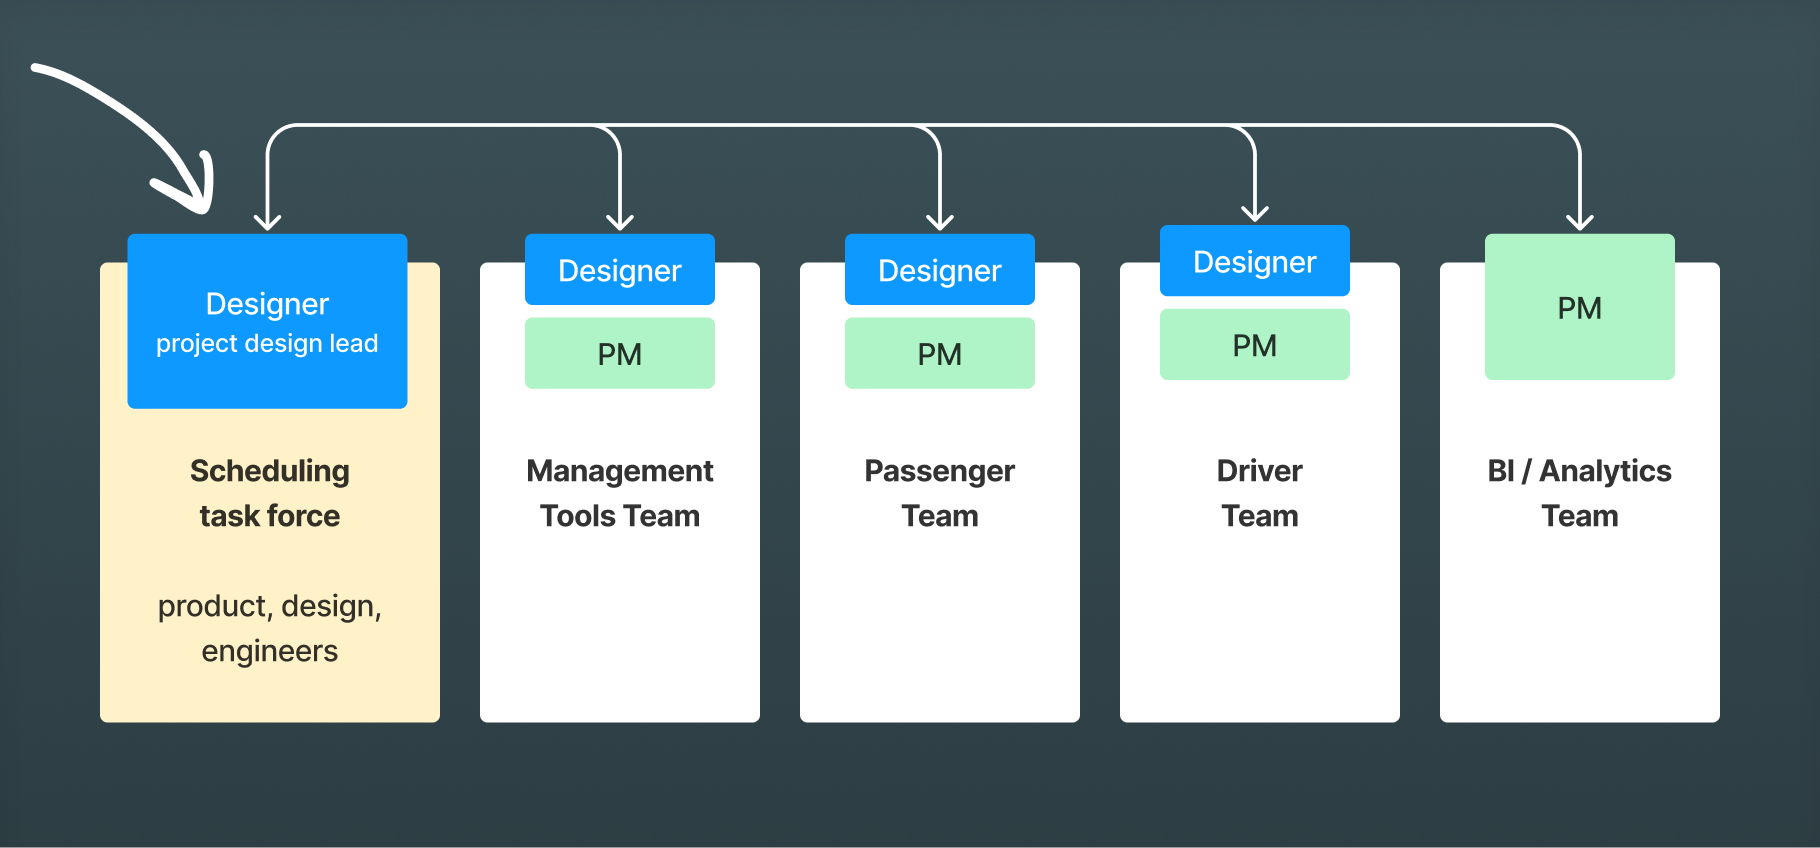
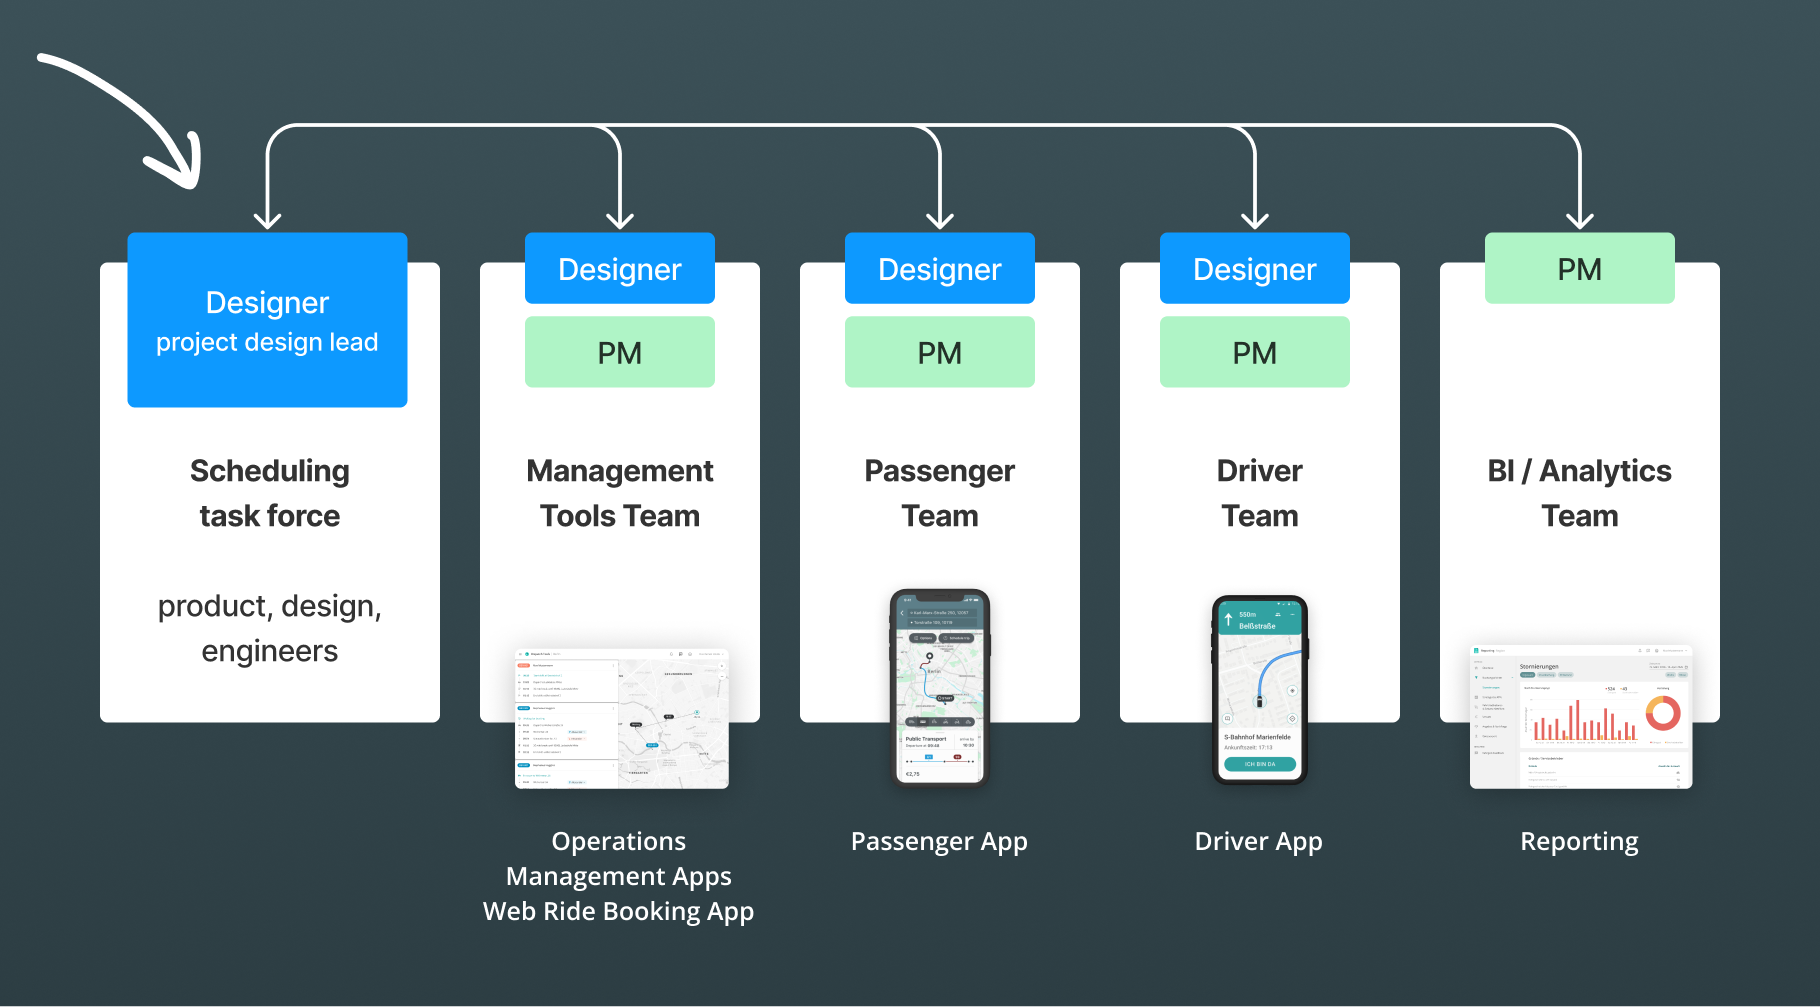
scheduling process

Changed region(s): [[0.0, 0.0613, 0.9538, 0.9198], [0.1538, 0.1226, 0.8615, 0.184], [0.8615, 0.1533, 0.8923, 0.184]]

diff --git a/door2door/index.html b/door2door/index.html
@@ -87,11 +87,10 @@
 
       <h3>Summary</h3>
       <ul>
-        <li>As a functional design leader, I have created solutions for and delivered a technically complex functionality (spanning across 4 parts of the product), which effectively enabled the company to run large-scale operations and unlocked new markets.</li>
-        <li>I have researched the problem space, collecting insights from customer interviews, live operation observations, passenger surveys, and bringing them to internal workshops and stakeholder feedback sessions.</li>
-        <li>Mapped interconnected task flows of 4 user types</li>
-        <li>Got validation and approval for a 3-phased design concept that prioritised pressing problems first and offered strategies for the future.</li>
-        <li>Provided guidance, support and adjustments during development iterations.</li>  
+        <li>As a functional design leader, I have conceptualised and delivered a complex feature (spanning across 4 subproducts and 5 different user groups), which effectively enabled the company to run large-scale operations and unlocked new markets.</li>
+        <li>I have researched the problem space, collecting insights from customer interviews, live operation observations, passenger surveys, and converted that knowledge into actionable items during ideation workshops and design research.</li>
+        <li>Delivered a 3-phased design concept that prioritised pressing problems first and offered strategies for the future.</li>
+        <li>Transformed the concept from MVP to a marketable product by researching and addressing corner cases and limitations.</li>  
       </ul>
 
 
@@ -101,43 +100,57 @@
         <img class="img-responsive center-block rounded" src="/images/scheduling_context.png" alt="">
       <section class="copy-section">
      
-      <p>The scheduling was supposed to add a new dimension — time — to a previously "realtime" system, changing core userflows, and affecting nearly all interfaces of the product.
-      A dedicated cross-team task force was established for implementation, with me tasked as its design leader.</p>
+      <p>The scheduling was supposed to add a new dimension — time — to a previously "realtime" system, changing core userflows, and affecting nearly all interfaces of the product.</p>
       
 
 
       <h3>My task</h3>
-      <p>Leading the process from the design side, enable cross-functional teams in the company, arriving to a solution that would make scheduling possible, while meeting the requirements, constraints and deadlines.</p>
+      <p>Enable cross-functional teams in the company from the design side, arriving to a solution that would make scheduling possible, while meeting the requirements, constraints and deadlines.</p>
+    </section>
+    <img class="img-responsive center-block rounded" src="/images/scheduling_teams.png" alt="">
+<section class="copy-section">
+
+      <p>To coordinate the efforts, a dedicated cross-team task force was established, with me taking the lead from the design side.</p>
+
+   
+      <h3>Research: scoping the problem</h3>
+      
+      <p>The challenge was to synthesize requirements from various customers, and define a scope that would be technically doable, and strategically aligned.</p>
+      </br>
+      <ul>
+        <li>What is the root problem that needs to be solved first?</li>
+        <li>Which userflows will have to be enabled to deliver a markletable solution?</li>
+        <li>Will the impact justify the efforts, and how do we measure it?</li>
+      </ul>
+      </br>
+
+      <p>The solution was completely new for the product. In collaboration with product and engineering leads, we have collected as much context as possible, and then experimented with different system designs and UX models, until we found a sweet spot between requirements, strategic value, user experience and feasibility.</p>
+        
 
     </section>
-        <img class="img-responsive center-block rounded" src="/images/scheduling_teams.png" alt="">
-    <section class="copy-section">
+    <img class="img-responsive center-block rounded" src="/images/scheduling_process.png" alt="">
+<section class="copy-section">
 
-      <h3>Research</h3>
-      <p>I have conducted a series of initial interviews with public transit operators in 4 cities and regions of Germany. The results were brought to internal ideation sessions and then again to customer feedback interviews (there were more than 10 iterations).</p>
-      
-
-      
-      <p>The difficulty was in synthesizing a variety of requirements and refining the concept to be both technically viable and a robust foundation for future expansion.</p>
-      
       <h3>Solution</h3>
-      <p>The concept that made everyone agree was a multi-phased plan which was set up to address pressing problems first and contained design proposalf for possible additional valuable functonality, such as automated schedule generation and dynamic supply-demand matching.</p>
+      <p>The stakeholders agreed on 3-phased solution which was set up to address pressing problems first and contained design proposals for adding more value through automation and prediction models.</p>
+
+
+    </section>
+    <img class="img-responsive center-block" src="/images/shiftplanning-1.png" alt="">
+  <section class="copy-section">
+
+      <h3>Outcomes</h3>
       <p>Under my design leadership the team built a planning feature, allowing for larger scale operations, and activated pre-booking capability for passengers, which was a key for important business cases such as commuting or medical transport.</p>
 
+     
+
+      <h3>User touchpoints across products</h3>
     </section>
-
-      <img class="img-responsive center-block" src="/images/d2d-dependencies.png" alt="">
-      <p class="caption">Functional dependencies.</p>
-      <br/>
-
-      <img class="img-responsive center-block" src="/images/shiftplanning-1.png" alt="">
-      <p class="caption">Planning a schedule.</p>
-      <br/>
       <img class="img-responsive center-block" src="/images/realtimeview.png" alt="">
       <p class="caption">Viewing planned driver shifts in realtime monitoring UI.</p>
       <br/>
-      <img class="img-responsive center-block" src="/images/prebooking.png" alt="">
-      <p class="caption">Passenger prebooking a ride.</p>
+      <img class="img-responsive center-block rounded" src="/images/prebooking.png" alt="">
+      <p class="caption">Integrating with Passenger App prebooking flow.</p>
       <br/>
       <img class="img-responsive center-block" src="/images/d2d-handling.png" alt="">
       <p class="caption">Recovery userflows for handling unplanned changes.</p>
